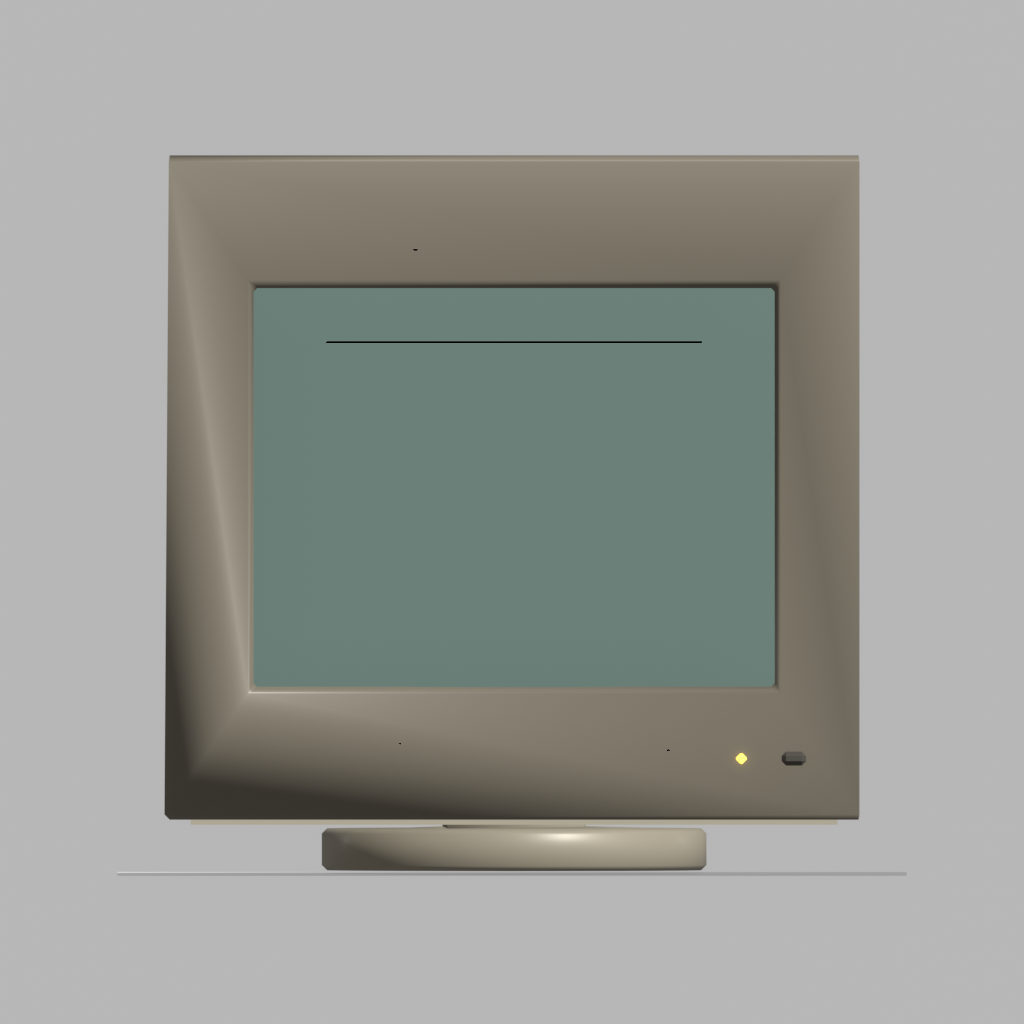
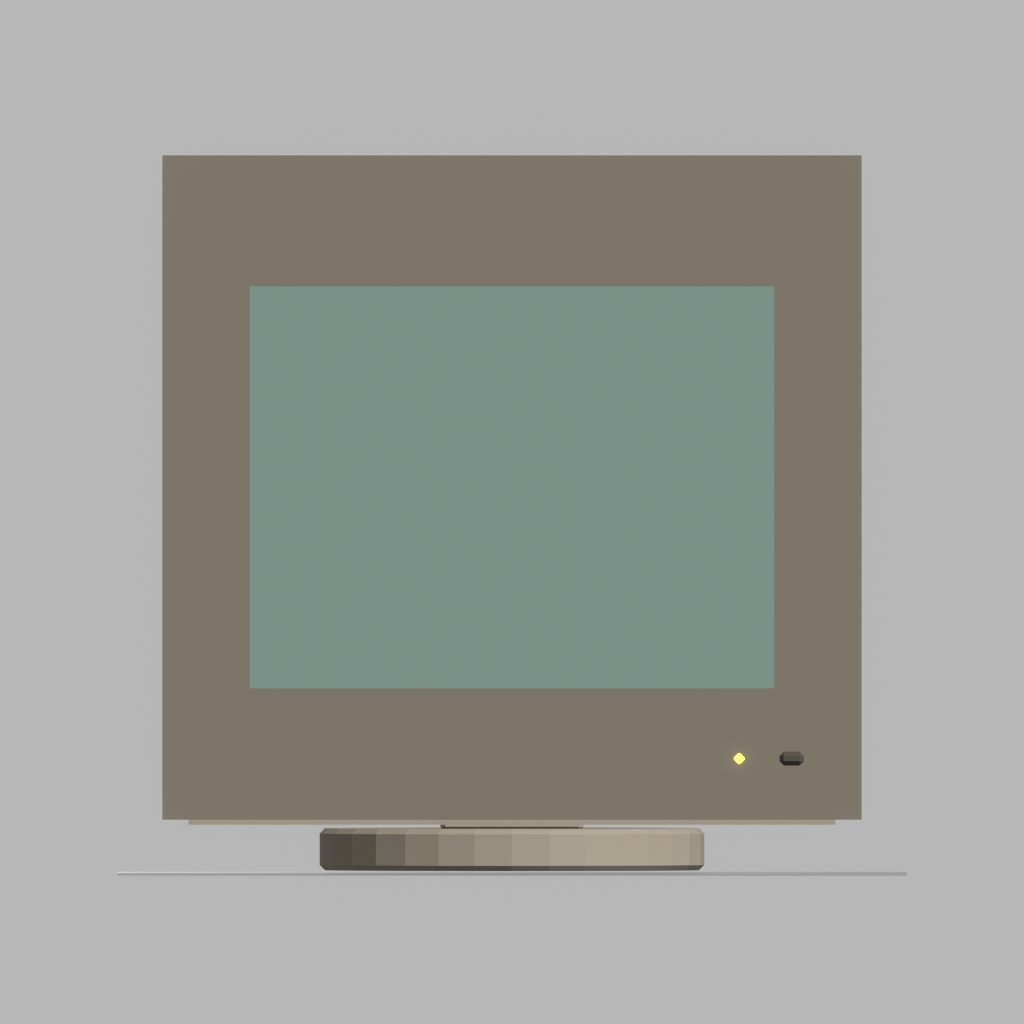
fix(art): monitor watertight screen + bezel seal #94
8-vert screen slab; merge 0.0005; topology gates

diff --git a/tools/art/cc0/blender/monitor_era1_kit.py b/tools/art/cc0/blender/monitor_era1_kit.py
@@ -106,23 +106,18 @@ def _bezel_frame(z_center: float, y_front: float) -> bpy.types.Object:
     return outer
 
 
-def _bulged_screen(y_center: float, z_center: float) -> bpy.types.Object:
-    _spec("screen", (SCREEN_W, SCREEN_BULGE * 2, SCREEN_H), (0, y_center, z_center))
-    bpy.ops.mesh.primitive_cube_add(size=1, location=(0, y_center, z_center))
+def _crt_screen_panel(z_center: float) -> bpy.types.Object:
+    """Single watertight screen slab — glTF x±0.15, y 0.105–0.335, z 0.213–0.218."""
+    y_front = -0.218
+    y_back = -0.213
+    y_mid = (y_front + y_back) / 2.0
+    depth = abs(y_back - y_front)
+    _spec("screen", (SCREEN_W, depth, SCREEN_H), (0, y_mid, z_center))
+    bpy.ops.mesh.primitive_cube_add(size=1, location=(0, y_mid, z_center))
     ob = bpy.context.active_object
     ob.name = "screen"
-    ob.dimensions = (SCREEN_W, SCREEN_BULGE * 0.4, SCREEN_H)
+    ob.dimensions = (SCREEN_W, depth, SCREEN_H)
     bpy.ops.object.transform_apply(location=True, rotation=True, scale=True)
-    bpy.ops.object.mode_set(mode="EDIT")
-    bpy.ops.mesh.subdivide(number_cuts=6)
-    bpy.ops.object.mode_set(mode="OBJECT")
-    hw, hh = SCREEN_W * 0.5, SCREEN_H * 0.5
-    for v in ob.data.vertices:
-        nx = v.co.x / hw if hw else 0
-        nz = v.co.z / hh if hh else 0
-        t = max(0.0, 1.0 - math.sqrt(nx * nx + nz * nz))
-        v.co.y -= SCREEN_BULGE * (t**1.5)
-    ob.data.update()
     return ob
 
 
@@ -168,8 +163,7 @@ def build_monitor_era1() -> list[bpy.types.Object]:
     shell_parts.append(_overlap_cylinder("base_foot", 0.11, 0.024, (0, 0, 0.012)))
     shell_parts.append(_overlap_box("neck", (0.082, 0.082, 0.090), (0, 0, 0.067)))
 
-    y_scr = y_front - RECESS - SCREEN_BULGE * 0.55
-    screen = _bulged_screen(y_scr, z_body)
+    screen = _crt_screen_panel(z_body)
     screen.name = "screen"
 
     # glTF Y-up: vertical ≈ Blender Z; depth (front) ≈ -Blender Y.
@@ -182,41 +176,59 @@ def build_monitor_era1() -> list[bpy.types.Object]:
 
     slot_mats = [bpy.data.materials.new(f"_mon_slot_{i}") for i in range(4)]
     for ob in shell_parts + [screen, power_button, power_led]:
-        bw = 0.010 if ob.name == "screen" else 0.003
-        tower._bevel(ob, bw, segments=2 if ob.name == "screen" else 1)
-        tower._paint_part_faces(ob, _part_color(ob.name))
+        if ob.name not in ("screen", "bezel_frame"):
+            tower._bevel(ob, 0.003, segments=1)
+        if ob.name != "screen":
+            tower._paint_part_faces(ob, _part_color(ob.name))
     tower._apply_global_material_slots(shell_parts + [screen, power_button, power_led], slot_mats, _part_mat_index)
 
     shell = mb._union_parts(shell_parts)
     cc.apply_transforms(shell)
-    _remove_screen_opening_occluder(shell, z_body)
+    _recess_screen_opening_verts(shell, z_body)
     _clamp_rear_overhang(shell)
     tower._fix_tower_normals(shell)
     shell.name = "body_tapered"
-    _final_weld(shell)
+    _seal_bezel_mesh(shell)
 
+    _weld_screen_export(screen)
     tower._fix_tower_normals(screen)
     return [shell, screen, power_button, power_led]
 
 
-def _remove_screen_opening_occluder(ob: bpy.types.Object, z_center: float) -> None:
-    """Drop faces wholly inside the screen opening with glTF depth z > 0.205 (z-fight with screen)."""
+def _recess_screen_opening_verts(ob: bpy.types.Object, z_center: float) -> None:
+    """Push interior shell verts behind glTF z=0.205 (no face delete — keeps manifold)."""
     x_half = SCREEN_W / 2 - 0.003
     z0 = z_center - SCREEN_H / 2
     z1 = z_center + SCREEN_H / 2
-    bm = bmesh.new()
-    bm.from_mesh(ob.data)
-    doomed: list[bmesh.types.BMFace] = []
-    for face in bm.faces:
-        if any(-v.co.y <= 0.205 for v in face.verts):
+    y_cut = -0.205
+    for v in ob.data.vertices:
+        if -v.co.y <= 0.205:
             continue
-        if all(abs(v.co.x) <= x_half and z0 <= v.co.z <= z1 for v in face.verts):
-            doomed.append(face)
-    if doomed:
-        bmesh.ops.delete(bm, geom=doomed, context="FACES")
-    bm.to_mesh(ob.data)
-    bm.free()
+        if abs(v.co.x) <= x_half and z0 <= v.co.z <= z1:
+            if v.co.y < y_cut:
+                v.co.y = y_cut
     ob.data.update()
+
+
+def _weld_screen_export(ob: bpy.types.Object) -> None:
+    """8-vert watertight slab: weld then single UV/normal corner per position for glTF."""
+    bpy.context.view_layer.objects.active = ob
+    ob.select_set(True)
+    mod = ob.modifiers.new("_weld", "WELD")
+    mod.merge_threshold = _WELD_DIST
+    bpy.ops.object.modifier_apply(modifier=mod.name)
+    bpy.ops.object.shade_smooth()
+    if ob.data.uv_layers:
+        uv_layer = ob.data.uv_layers.active.data
+        for loop in uv_layer:
+            loop.uv = (0.5, 0.5)
+    bpy.ops.object.mode_set(mode="EDIT")
+    bpy.ops.mesh.select_all(action="SELECT")
+    bpy.ops.mesh.remove_doubles(threshold=_WELD_DIST)
+    bpy.ops.mesh.normals_make_consistent(inside=False)
+    bpy.ops.object.mode_set(mode="OBJECT")
+    ob.data.use_auto_smooth = True
+    ob.data.auto_smooth_angle = math.radians(180)
 
 
 def _clamp_rear_overhang(ob: bpy.types.Object) -> None:
@@ -312,10 +324,37 @@ def _parent_apply(parts: list[bpy.types.Object], root_name: str) -> None:
     bpy.ops.object.transform_apply(location=True, rotation=True, scale=True)
 
 
+_BEZEL_PINHOLES_GLTF = [(-0.057, 0.354), (-0.066, 0.07), (0.09, 0.067)]
+_WELD_DIST = 0.0005
+
+
+def _seal_bezel_mesh(root: bpy.types.Object) -> None:
+    """Merge-by-distance and close T-junctions on the front bezel band (glTF z > 0.225)."""
+    bm = bmesh.new()
+    bm.from_mesh(root.data)
+    front = [v for v in bm.verts if -v.co.y > 0.225]
+    if front:
+        bmesh.ops.remove_doubles(bm, verts=front, dist=0.003)
+    bmesh.ops.remove_doubles(bm, verts=bm.verts, dist=_WELD_DIST)
+    for x_g, y_g in _BEZEL_PINHOLES_GLTF:
+        near = [
+            v
+            for v in bm.verts
+            if -v.co.y > 0.225 and (v.co.x - x_g) ** 2 + (v.co.z - y_g) ** 2 < (0.014 * 0.014)
+        ]
+        if len(near) > 1:
+            bmesh.ops.remove_doubles(bm, verts=near, dist=0.006)
+    bmesh.ops.remove_doubles(bm, verts=bm.verts, dist=_WELD_DIST)
+    bm.normal_update()
+    bm.to_mesh(root.data)
+    bm.free()
+    root.data.update()
+
+
 def _final_weld(root: bpy.types.Object) -> None:
     bpy.context.view_layer.objects.active = root
     root.select_set(True)
     bpy.ops.object.mode_set(mode="EDIT")
     bpy.ops.mesh.select_all(action="SELECT")
-    bpy.ops.mesh.remove_doubles(threshold=OVERLAP)
+    bpy.ops.mesh.remove_doubles(threshold=_WELD_DIST)
     bpy.ops.object.mode_set(mode="OBJECT")

diff --git a/tools/art/cc0/inspect_glb_trimesh.py b/tools/art/cc0/inspect_glb_trimesh.py
@@ -59,6 +59,22 @@ def _mesh_table_names(doc: dict) -> list[str]:
     return [str(m.get("name", "")) for m in doc.get("meshes") or []]
 
 
+def _topology_mesh(mesh):
+    """Merged-vertex topology for watertight / boundary checks."""
+    m = mesh.copy()
+    m.merge_vertices()
+    m.update_faces(m.nondegenerate_faces())
+    m.remove_unreferenced_vertices()
+    return m
+
+
+def _boundary_edge_indices(mesh) -> list[int]:
+    from trimesh import grouping
+
+    m = _topology_mesh(mesh)
+    return list(grouping.group_rows(m.edges_sorted, require_count=1))
+
+
 def _bounds_line(name: str, mesh) -> str:
     b = mesh.bounds
     c = mesh.centroid
@@ -126,6 +142,29 @@ def gate_monitor(names: set[str], mats: list[dict], geom: dict) -> list[str]:
         c = geom["power_button"].centroid
         if not (0.13 < c[0] < 0.19 and 0.04 < c[1] < 0.09):
             errs.append(f"power_button centroid ({c[0]:.4f},{c[1]:.4f}) outside lower bezel band")
+    if "screen" in geom:
+        scr = _topology_mesh(geom["screen"])
+        bcount = len(_boundary_edge_indices(scr))
+        if not scr.is_watertight or bcount != 0:
+            errs.append(f"screen watertight={scr.is_watertight} boundary_edges={bcount}")
+        sb = scr.bounds
+        if abs(sb[1][0] - 0.15) > 0.002 or abs(sb[0][0] + 0.15) > 0.002:
+            errs.append(f"screen x bounds {sb[0][0]:.4f}..{sb[1][0]:.4f} not ~±0.15")
+        if abs(sb[0][1] - 0.105) > 0.002 or abs(sb[1][1] - 0.335) > 0.002:
+            errs.append(f"screen y bounds {sb[0][1]:.4f}..{sb[1][1]:.4f} not 0.105–0.335")
+        if sb[0][2] < 0.212 or sb[1][2] > 0.219:
+            errs.append(f"screen z bounds {sb[0][2]:.4f}..{sb[1][2]:.4f} not ~0.213–0.218")
+    if "body_tapered" in geom:
+        body = _topology_mesh(geom["body_tapered"])
+        verts = body.vertices
+        front_boundary = 0
+        for ei in _boundary_edge_indices(body):
+            e = body.edges_sorted[ei]
+            zmid = float((verts[e[0], 2] + verts[e[1], 2]) / 2)
+            if zmid > 0.225:
+                front_boundary += 1
+        if front_boundary != 0:
+            errs.append(f"body_tapered {front_boundary} boundary edges on bezel front (z_mid>0.225)")
     if "body_tapered" in geom and "screen" in geom:
         body, screen = geom["body_tapered"], geom["screen"]
         sb = screen.bounds

diff --git a/tools/art/cc0/blender/cc0_common.py b/tools/art/cc0/blender/cc0_common.py
@@ -404,7 +404,9 @@ def _purge_staging_meshes(keep: set[bpy.types.Object]) -> None:
             bpy.data.objects.remove(ob, do_unlink=True)
 
 
-def export_gltf_y_up_multi(objects: list[bpy.types.Object], path: Path) -> None:
+def export_gltf_y_up_multi(
+    objects: list[bpy.types.Object], path: Path, *, lean_topology: bool = False
+) -> None:
     path.parent.mkdir(parents=True, exist_ok=True)
     _purge_staging_meshes(set(objects))
     leaves: list[bpy.types.Object] = []
@@ -428,7 +430,8 @@ def export_gltf_y_up_multi(objects: list[bpy.types.Object], path: Path) -> None:
         export_format="GLB",
         use_selection=True,
         export_apply=False,
-        export_texcoords=True,
+        export_texcoords=not lean_topology,
+        export_normals=not lean_topology,
         export_materials="EXPORT",
         export_image_format="AUTO",
         export_yup=True,
@@ -812,7 +815,11 @@ def finish_cc0_asset(
     glb = out_dir / f"{asset_id}.glb"
     if export_objects:
         _purge_staging_meshes(set(export_objs))
-        export_gltf_y_up_multi(export_objs, glb)
+        export_gltf_y_up_multi(
+            export_objs,
+            glb,
+            lean_topology=(asset_id == "compute-monitor-era1"),
+        )
     else:
         export_gltf_y_up(root, glb)
     if era1 and asset_id in ("compute-monitor-era1", "compute-server-rack-era1"):
